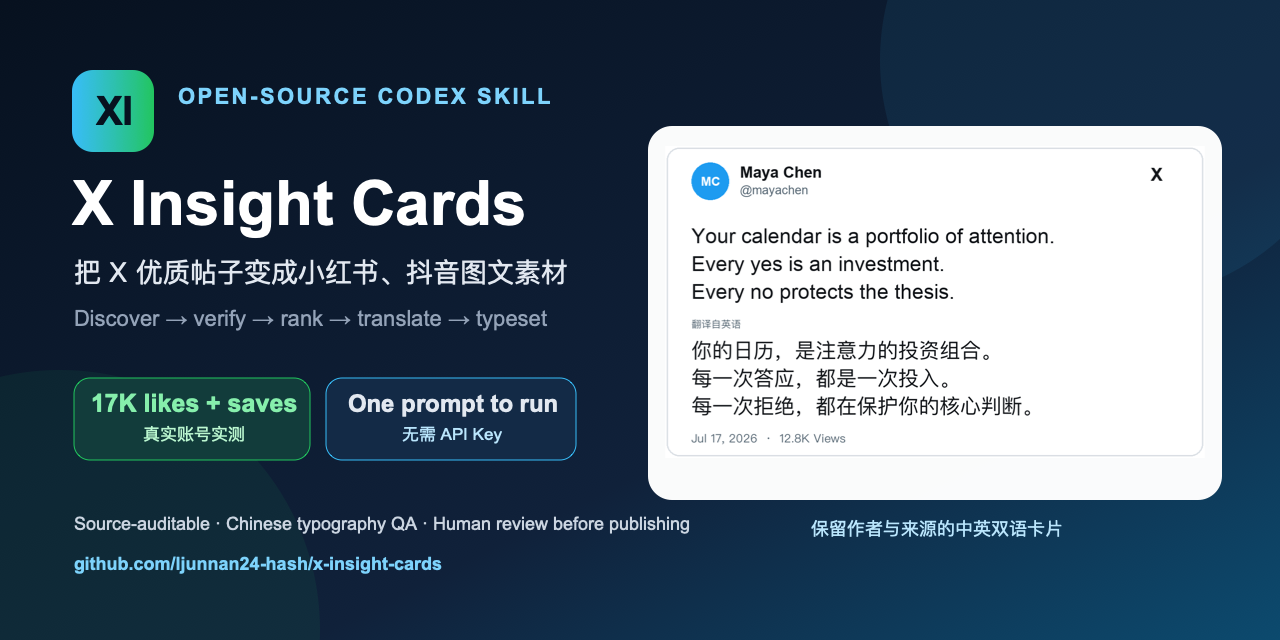
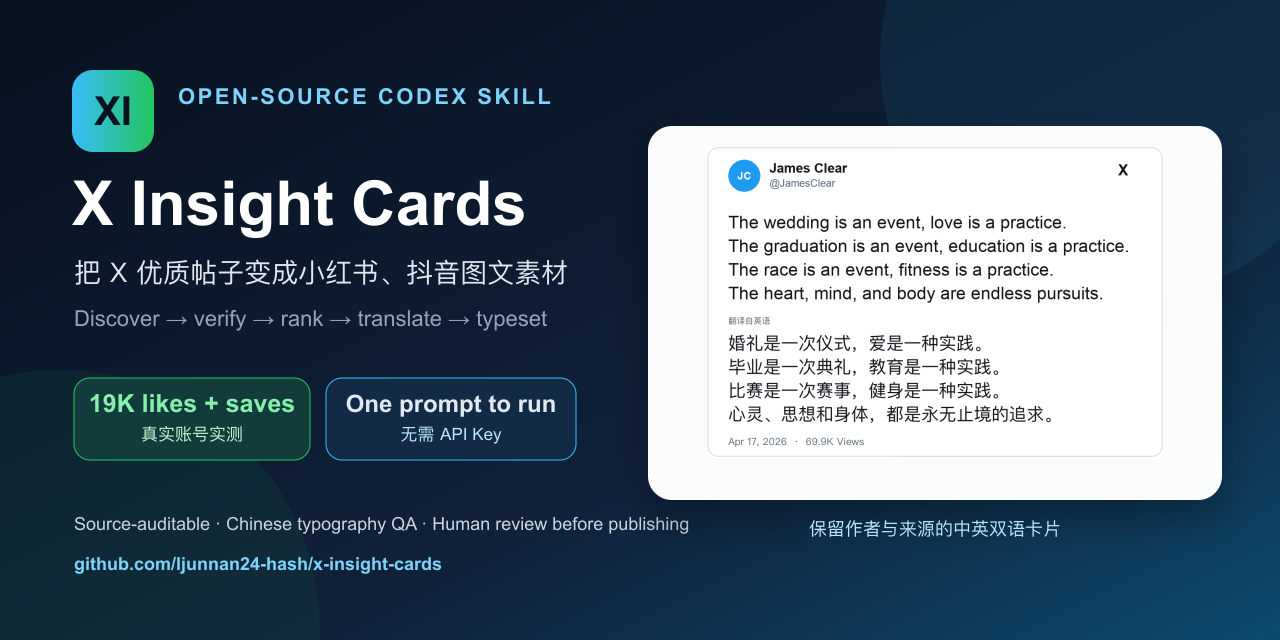
Update Xiaohongshu proof and metrics (#11)

diff --git a/README.md b/README.md
@@ -29,14 +29,14 @@
 
 ## Creator-tested on Xiaohongshu and Douyin
 
-**A Xiaohongshu experiment using this workflow gained 100+ followers in less than one week.**
+**A Xiaohongshu experiment using this workflow gained 100+ followers in less than one week and now has 139 followers.**
 
 The workflow has been used to make posts for real creator accounts. Results visible in the creator-provided screenshots include:
 
 | Platform | Documented results |
 | --- | --- |
-| **Xiaohongshu account** | **17K total likes and saves** |
-| **Xiaohongshu visible posts** | **96,225 views / 8,877 likes**, **13,804 / 1,067**, **1,907 / 167**, and **1,700 / 141** |
+| **Xiaohongshu account** | **139 followers** and **19K total likes and saves** |
+| **Xiaohongshu visible posts** | **98,003 views / 8,876 likes**, **21,455 / 1,618**, **1,972 / 169**, and **1,773 / 143** |
 | **Douyin account** | **12 posts** and **1,591 total likes** |
 | **Douyin visible posts** | **11K, 9,635, 1,148, 1,063, 703, and 676 plays** |
 
@@ -54,7 +54,7 @@ Xiaohongshu ID: `3876991164` · The README loads an optimized WebP preview; clic
 
 Douyin ID: `51536643904` · The README loads an optimized WebP preview; click it for the original PNG.
 
-**中文说明：**使用这套工作流运营的小红书账号，**不到一周新增 100＋粉丝**；主页显示累计 **1.7 万获赞与收藏**，其中可见作品包括 **96,225 浏览 / 8,877 赞、13,804 / 1,067、1,907 / 167、1,700 / 141**。抖音主页显示 **12 条作品、累计获赞 1,591**，多条可见作品达到数百至 **1.1 万播放**。
+**中文说明：**使用这套工作流运营的小红书账号，**不到一周新增 100＋粉丝，目前 139 粉丝**；主页显示累计 **1.9 万获赞与收藏**，其中可见作品包括 **98,003 浏览 / 8,876 赞、21,455 / 1,618、1,972 / 169、1,773 / 143**。抖音主页显示 **12 条作品、累计获赞 1,591**，多条可见作品达到数百至 **1.1 万播放**。
 
 These creator-authorized screenshots demonstrate real-world use, not guaranteed future reach. Topic choice, account history, timing, and platform distribution still matter.
 

diff --git a/README.zh-CN.md b/README.zh-CN.md
@@ -29,14 +29,14 @@
 
 ## 小红书、抖音真实账号实测
 
-**使用这套工作流运营的小红书账号，不到一周新增 100＋粉丝。**
+**使用这套工作流运营的小红书账号，不到一周新增 100＋粉丝，目前 139 粉丝。**
 
 这套工作流已经用于真实创作者账号。用户提供的原始截图显示：
 
 | 平台 | 实测数据 |
 | --- | --- |
-| **小红书账号** | 累计 **1.7 万获赞与收藏** |
-| **小红书可见作品** | **96,225 浏览 / 8,877 赞、13,804 / 1,067、1,907 / 167、1,700 / 141** |
+| **小红书账号** | **139 粉丝**，累计 **1.9 万获赞与收藏** |
+| **小红书可见作品** | **98,003 浏览 / 8,876 赞、21,455 / 1,618、1,972 / 169、1,773 / 143** |
 | **抖音账号** | **12 条作品**，累计 **1,591 获赞** |
 | **抖音可见作品** | **1.1 万、9,635、1,148、1,063、703、676 播放** |
 
@@ -54,7 +54,7 @@
 
 抖音号：`51536643904` · README 加载轻量 WebP 预览；点击图片查看原始 PNG。
 
-**English summary:** A Xiaohongshu experiment using this workflow gained **100+ followers in less than one week**. The profile shows **17K total likes and saves**, including a visible post with **96,225 views and 8,877 likes**. The Douyin profile shows **12 posts and 1,591 total likes**, with visible posts reaching up to **11K plays**.
+**English summary:** A Xiaohongshu experiment using this workflow gained **100+ followers in less than one week** and now has **139 followers**. The profile shows **19K total likes and saves**, including visible posts with **98,003 views and 8,876 likes** and **21,455 views and 1,618 likes**. The Douyin profile shows **12 posts and 1,591 total likes**, with visible posts reaching up to **11K plays**.
 
 这两张截图已获创作者授权公开，用于证明工作流产出的素材经过真实账号使用，但不代表未来作品一定获得相同流量。点击图片可查看原始分辨率；选题、账号基础、发布时间和平台分发仍然会影响结果。
 
